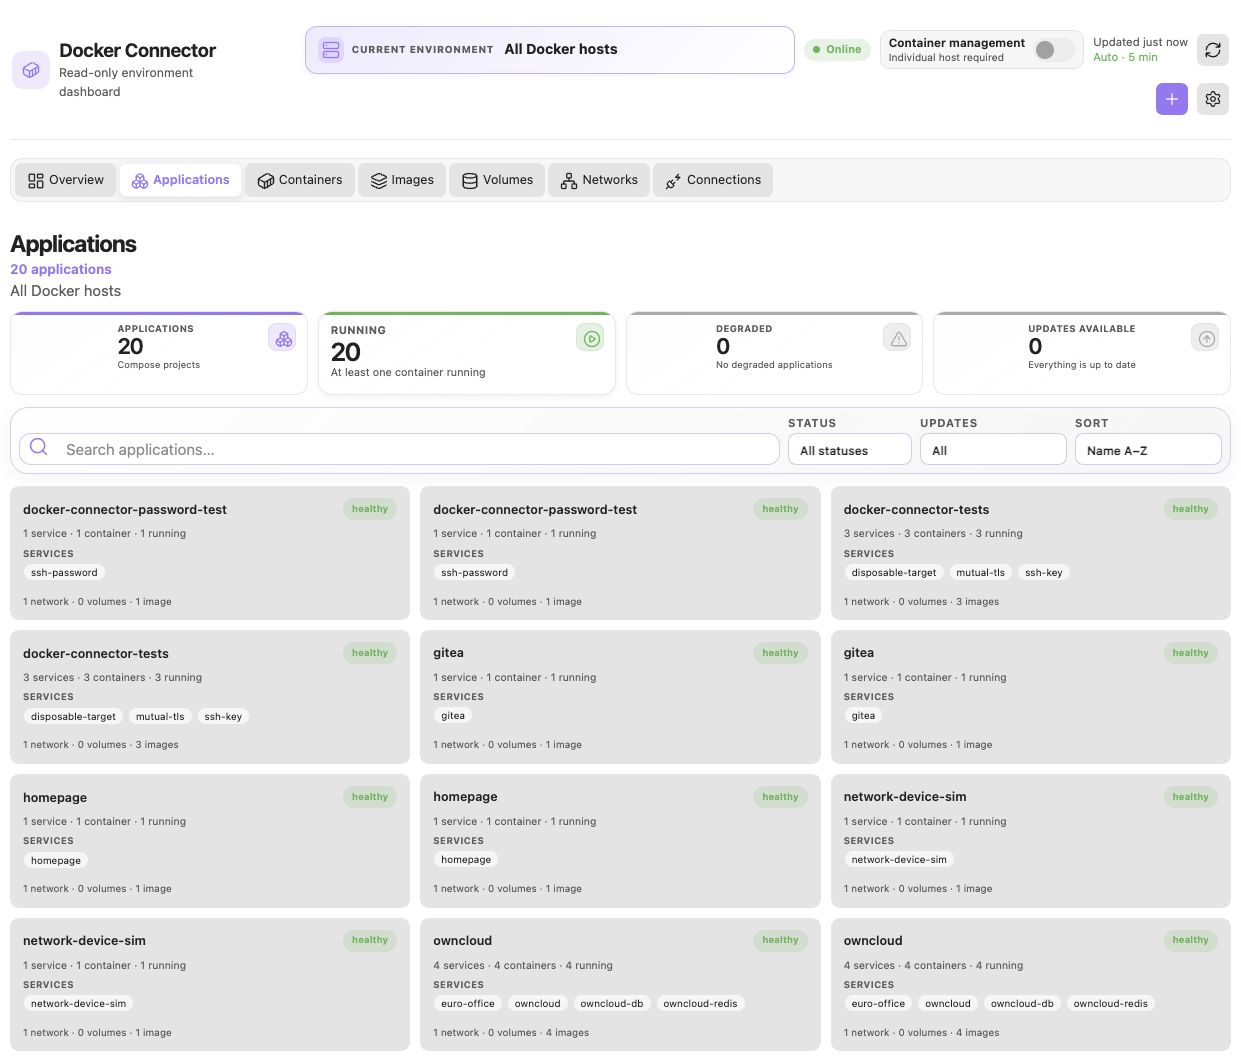
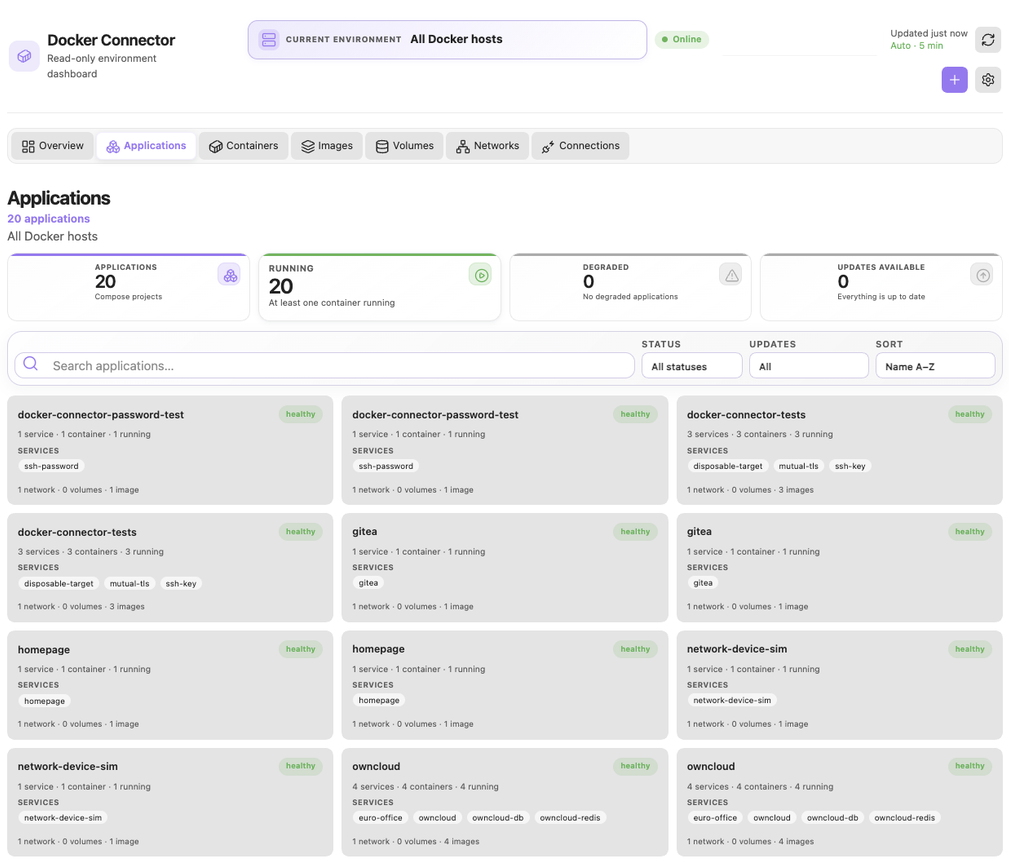
Replace screenshot 22
Installed as supplied. It still shows 20 applications with each one listed
twice, because it was captured from a plugin instance that had not been
reloaded since the 1.1.16 deploy: every screenshot taken today also shows
title-case labels such as Add Docker Host, which the deployed bundle no
longer contains.

Verified against the live daemons that deduplication itself is correct. The
two remote profiles resolve to one Docker Engine ID and the two local ones to
another, so five profiles collapse to two inventories and the list should
read 10 applications.

Claude-Session: https://claude.ai/code/session_01PdbPpb29X3tFzQC5aHqcYn

diff --git a/docs/Docker Connector - Screenshot Recapture.md b/docs/Docker Connector - Screenshot Recapture.md
@@ -4,9 +4,11 @@ tags: [docker-connector, documentation, screenshots]
 
 # Screenshot recapture
 
-6 User Guide screenshots still need retaking, because what they show has structurally changed: a control that no longer exists, a dialog that is now an Obsidian modal, duplicated data since deduplicated, or a block that did not exist yet. Each row was checked by opening the image.
+5 User Guide screenshots still need retaking, because what they show has structurally changed: a control that no longer exists, a dialog that is now an Obsidian modal, duplicated data since deduplicated, or a block that did not exist yet. Each row was checked by opening the image.
 
-01, 02, 18, 20, 21 and 23 were replaced on 28-Aug-2026.
+01, 02, 18, 20, 21, 22 and 23 were replaced on 28-Aug-2026.
+
+Those replacements were captured from a plugin instance that had not been reloaded since the 1.1.16 deploy, so they still show title-case labels such as **Add Docker Host**, and 22 still shows each application twice. The deployed bundle contains the sentence-case labels and deduplicates correctly; reload the plugin before any further capture.
 
 Screenshots whose only difference is letter case are deliberately left as they are: 09, 11, 12, 13, 14, 15, 16, 17 and 30 show title-case labels such as **Test Connection** or **In Use** where the interface now reads **Test connection** and **In use**. They are not being recaptured.
 
@@ -17,7 +19,6 @@ Images live in `docs/images/user-guide/`; the guide sizes each one to at most 88
 | ✓ | # | File | What the current image shows | What the new image must show |
 | --- | --- | --- | --- | --- |
 | [ ] | 19 | `19-authentication-required-reconnect.png` | Authentication-required card: pill, Reconnect, zeroed inventory, *Docker details unavailable* | Card now also carries a **failure-reason line** — lock icon and the server's own reason — above the endpoint row |
-| [ ] | 22 | `22-applications-list.png` | **20 applications, every one duplicated** (gitea ×2, owncloud ×2, …). Header switch present | **10 applications, no duplicates.** Capture after the refresh has settled: immediately after a refresh the list can still show every application twice, which is the state 23 was taken in |
 | [ ] | 35 | `35-management-confirmation.png` | **Native browser dialog**, OS-styled: *Enable container management for …?* with **Cancel / OK** | **Obsidian modal** titled *Enable container management*, a details row naming the Docker host, buttons **Cancel / Enable management** |
 | [ ] | 38 | `38-action-confirmation.png` | **Native browser dialog** *Stop container?* listing Container / Image / Docker host, **Cancel / OK** | **Obsidian modal** titled *Stop container*, the three as labelled rows, red **Stop** button |
 | [ ] | 40 | `40-start-confirmation.png` | **Native browser dialog** *Start container?*, **Cancel / OK** | **Obsidian modal** titled *Start container*, accent **Start** button — start is not destructive, so it is not red |
@@ -27,8 +28,6 @@ Images live in `docs/images/user-guide/`; the guide sizes each one to at most 88
 
 | Cause | Landed | Screenshots still to retake |
 | --- | --- | --- |
-| Header **Container management** switch removed | 26-Aug-2026 22:43 | 22 |
-| Inventories deduplicated by Docker daemon | 26-Aug-2026 23:09 | 22 |
 | About and support footer added to settings | 27-Aug-2026 23:09 | 41 |
 | Browser confirm dialogs replaced by an Obsidian modal | 27-Aug-2026 23:44 | 35, 38, 40 |
 | Connection card states its failure reason | 28-Aug-2026 11:04 | 19 |
